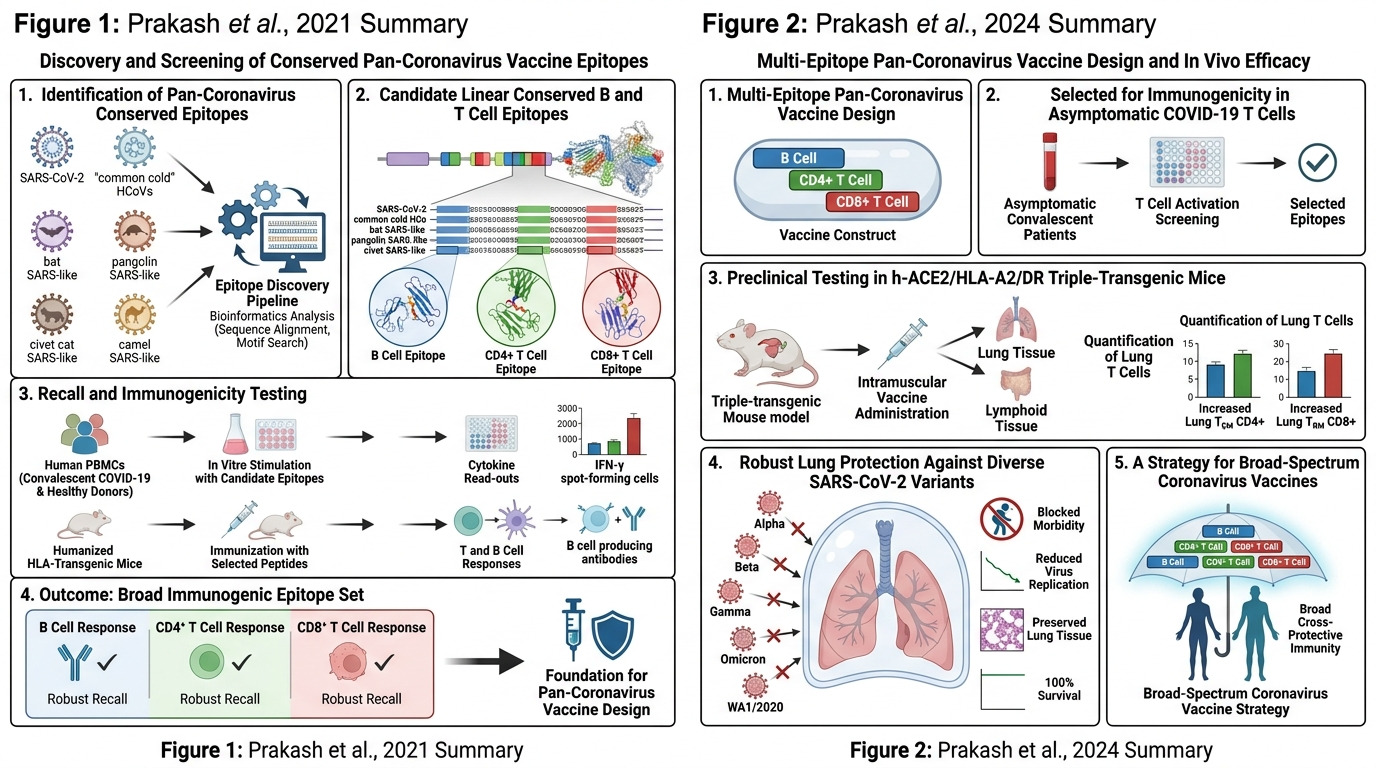
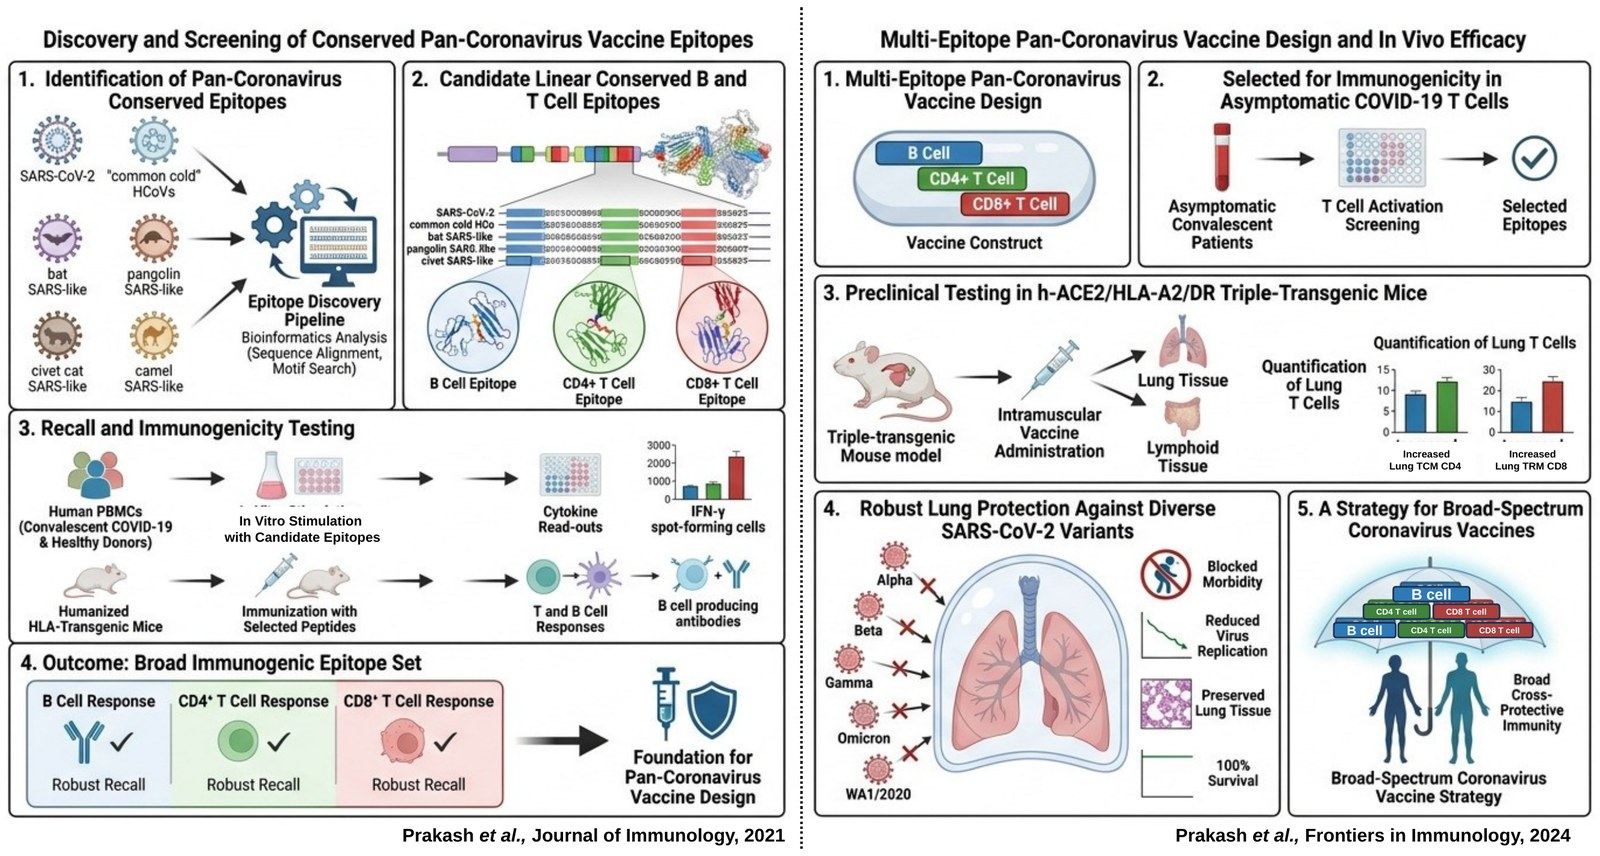
Replace pan-coronavirus vaccine summary figure with corrected version

diff --git a/research.html b/research.html
@@ -154,7 +154,7 @@
           <tr><td>1.3 Breadth and mechanism</td><td>Quantify antibodies, TFH, cytotoxic and TRM-like responses in homologous or surrogate models.</td><td>Mechanistic correlate package and lead-candidate selection.</td></tr>
         </tbody>
       </table></div>
-      <figure class="rise"><img src="assets/img/vaccine-pan-corona-summary.jpg" width="1376" height="768" alt="Two-panel summary of the pan-coronavirus vaccine program: epitope discovery from SARS-CoV-2, human and animal coronaviruses, and a multi-epitope vaccine tested in HLA-transgenic mice with protection against multiple SARS-CoV-2 variants" loading="lazy"><figcaption>Summary of the pan-betacoronavirus vaccine program: genome-wide discovery of conserved B-cell, CD4 and CD8 T-cell epitopes across human and animal coronaviruses (left), and a multi-epitope construct that protected HLA-transgenic mice against multiple SARS-CoV-2 variants (right).</figcaption></figure>
+      <figure class="rise"><img src="assets/img/vaccine-pan-corona-summary.jpg" width="1600" height="856" alt="Two-panel summary of the pan-coronavirus vaccine program: epitope discovery from SARS-CoV-2, human and animal coronaviruses, and a multi-epitope vaccine tested in HLA-transgenic mice with protection against multiple SARS-CoV-2 variants" loading="lazy"><figcaption>Summary of the pan-betacoronavirus vaccine program: genome-wide discovery of conserved B-cell, CD4 and CD8 T-cell epitopes across human and animal coronaviruses (left), and a multi-epitope construct that protected HLA-transgenic mice against multiple SARS-CoV-2 variants (right).</figcaption></figure>
       <div class="fig-row two">
         <figure><img src="assets/img/bsl3-training-team.jpg" width="1600" height="1014" alt="Five researchers in full protective suits at the UC Irvine National BSL-3 Training Center" loading="lazy"><figcaption>With colleagues in full protective equipment at the UC Irvine National BSL-3 Training Center.</figcaption></figure>
         <figure><img src="assets/img/bench-nbc4-2021.jpg" width="1200" height="675" alt="Swayam Prakash pipetting samples at a laboratory bench" loading="lazy"><figcaption>At the bench at UC Irvine, from NBC4 Los Angeles coverage of the pan-coronavirus vaccine work (January 2021).</figcaption></figure>
